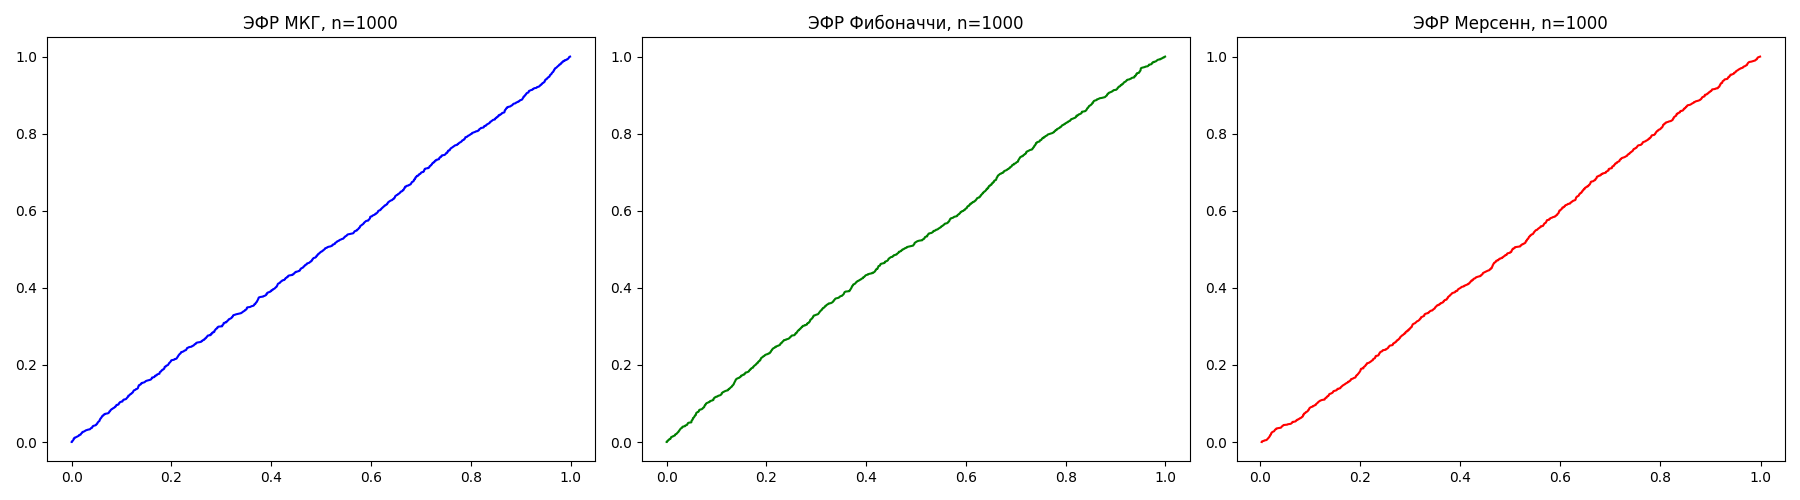
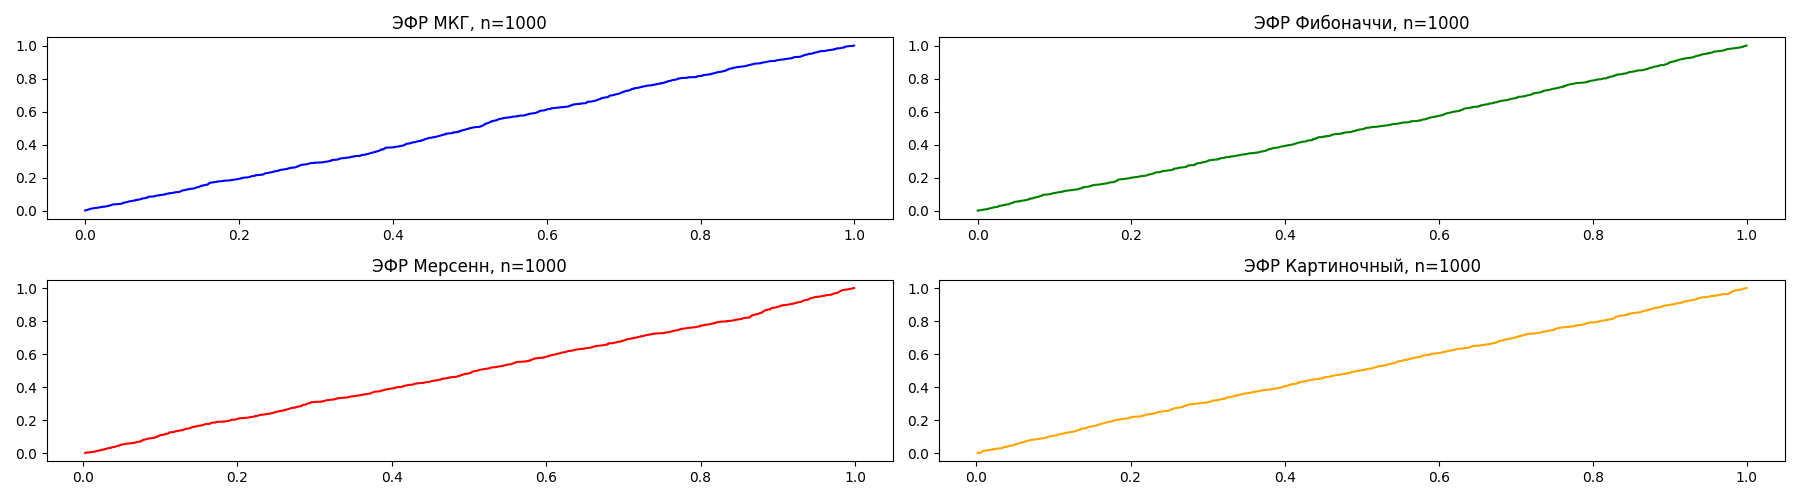
Добавлена 3 исправлена 2

diff --git a/4ModLab2/main.py b/4ModLab2/main.py
@@ -1,108 +1,171 @@
 import matplotlib.pyplot as plt
 import numpy as np
 import random
+import hashlib
+from PIL import Image
 
 
-def mcg_generator(size):
-    a, c, m = 16807, 0, 2 ** 31 - 1
-    r = 2 ** -52
-    result = []
+def image_random(size: int, image_path: str) -> list[float]:
+    img: Image.Image = Image.open(image_path).convert("RGB")
+    arr: np.ndarray = np.array(img, dtype=np.uint8)
+
+    lsb: np.ndarray = (arr & 1).flatten().astype(np.uint8)
+
+    padded_len: int = (len(lsb) + 7) // 8 * 8
+    lsb = np.pad(lsb, (0, padded_len - len(lsb)))
+
+    entropy: np.ndarray = np.packbits(lsb)
+
+    results: list[float] = []
+
+    for counter in range(size):
+        counter_bytes: bytes = counter.to_bytes(8, "big")
+        h: bytes = hashlib.sha256(entropy.tobytes() + counter_bytes).digest()
+        n: int = int.from_bytes(h[:8], "big")
+        results.append(n / 2 ** 64)
+
+    return results
+
+
+def mcg_generator(size: int) -> list[float]:
+    a: int = 16807
+    c: int = 0
+    m: int = 2 ** 31 - 1
+
+    x: int = 1  # seed
+    result: list[float] = []
+
     for _ in range(size):
-        r = ((a * r + c) % m) % 1
-        result.append(r)
+        x = (a * x + c) % m
+        result.append(x / m)
+
     return result
 
 
-def fibonacci_generator(size, lag1=63, lag2=31):
-    buffer = mcg_generator(max(lag1, lag2))
-    sequence = buffer.copy()
+def fibonacci_generator(size: int, lag1: int = 63, lag2: int = 31) -> list[float]:
+    buffer: list[float] = mcg_generator(max(lag1, lag2))
+    sequence: list[float] = buffer.copy()
+
     for i in range(len(buffer), size):
-        next_val = (sequence[i - lag1] - sequence[i - lag2]) % 1
+        next_val: float = (sequence[i - lag1] - sequence[i - lag2]) % 1.0
         sequence.append(next_val)
+
     return sequence
 
 
-def mt19937_generator(size):
+def mt19937_generator(size: int) -> list[float]:
     rng = random.Random()
     return [rng.random() for _ in range(size)]
 
 
-def basic_stats(data):
+def basic_stats(data: list[float]) -> str:
+    mean: float = float(np.mean(data))
+    var: float = float(np.var(data))
+    std: float = float(np.std(data))
     return (
-        f"Мат. ожидание: {np.mean(data):.5f}, "
-        f"Дисперсия: {np.var(data):.5f}, "
-        f"СКО: {np.std(data):.5f}"
+        f"Мат. ожидание: {mean:.5f}, "
+        f"Дисперсия: {var:.5f}, "
+        f"СКО: {std:.5f}"
     )
 
 
-def save_histograms(size, mcg, fib, mt):
-    fig, axs = plt.subplots(1, 3, figsize=(18, 5))
-    axs[0].hist(mcg, bins=50, color='skyblue')
-    axs[0].set_title(f"МКГ, n={size}")
-    axs[1].hist(fib, bins=50, color='lightgreen')
-    axs[1].set_title(f"Фибоначчи, n={size}")
-    axs[2].hist(mt, bins=50, color='salmon')
-    axs[2].set_title(f"Мерсенн, n={size}")
+def save_histograms(
+        size: int,
+        mcg: list[float],
+        fib: list[float],
+        mt: list[float],
+        ir: list[float]
+) -> None:
+    fig, axs = plt.subplots(2, 2, figsize=(18, 5))
+
+    axs[0][0].hist(mcg, bins=50, color='skyblue')
+    axs[0][0].set_title(f"МКГ, n={size}")
+
+    axs[0][1].hist(fib, bins=50, color='lightgreen')
+    axs[0][1].set_title(f"Фибоначчи, n={size}")
+
+    axs[1][0].hist(mt, bins=50, color='salmon')
+    axs[1][0].set_title(f"Мерсенн, n={size}")
+
+    axs[1][1].hist(ir, bins=50, color='orange')
+    axs[1][1].set_title(f"Картиночный, n={size}")
+
     plt.tight_layout()
     plt.savefig(f"graphics/histogram_n{size}.png")
     plt.close()
 
 
-def save_ecdf_plots(size, mcg, fib, mt):
-    fig, axs = plt.subplots(1, 3, figsize=(18, 5))
-    axs[0].plot(np.sort(mcg), np.linspace(0, 1, len(mcg)), color='blue')
-    axs[0].set_title(f"ЭФР МКГ, n={size}")
-    axs[1].plot(np.sort(fib), np.linspace(0, 1, len(fib)), color='green')
-    axs[1].set_title(f"ЭФР Фибоначчи, n={size}")
-    axs[2].plot(np.sort(mt), np.linspace(0, 1, len(mt)), color='red')
-    axs[2].set_title(f"ЭФР Мерсенн, n={size}")
+def save_ecdf_plots(
+        size: int,
+        mcg: list[float],
+        fib: list[float],
+        mt: list[float],
+        ir: list[float]
+) -> None:
+    fig, axs = plt.subplots(2, 2, figsize=(18, 5))
+
+    axs[0][0].plot(np.sort(mcg), np.linspace(0, 1, len(mcg)), color='blue')
+    axs[0][0].set_title(f"ЭФР МКГ, n={size}")
+
+    axs[0][1].plot(np.sort(fib), np.linspace(0, 1, len(fib)), color='green')
+    axs[0][1].set_title(f"ЭФР Фибоначчи, n={size}")
+
+    axs[1][0].plot(np.sort(mt), np.linspace(0, 1, len(mt)), color='red')
+    axs[1][0].set_title(f"ЭФР Мерсенн, n={size}")
+
+    axs[1][1].plot(np.sort(ir), np.linspace(0, 1, len(ir)), color='orange')
+    axs[1][1].set_title(f"ЭФР Картиночный, n={size}")
+
     plt.tight_layout()
     plt.savefig(f"graphics/ecdf_n{size}.png")
     plt.close()
 
 
-def save_scatter_diagrams(size, mcg, fib, mt):
-    fig, axs = plt.subplots(1, 3, figsize=(18, 5))
-    axs[0].scatter(mcg[:-1], mcg[1:], s=2, alpha=0.6, color='blue')
-    axs[0].set_title(f"МКГ XY, n={size}")
-    axs[1].scatter(fib[:-1], fib[1:], s=2, alpha=0.6, color='green')
-    axs[1].set_title(f"Фибоначчи XY, n={size}")
-    axs[2].scatter(mt[:-1], mt[1:], s=2, alpha=0.6, color='red')
-    axs[2].set_title(f"Мерсенн XY, n={size}")
+def save_scatter_diagrams(
+        size: int,
+        mcg: list[float],
+        fib: list[float],
+        mt: list[float],
+        ir: list[float]
+) -> None:
+    fig, axs = plt.subplots(2, 2, figsize=(18, 5))
+
+    axs[0][0].scatter(mcg[:-1], mcg[1:], s=2, alpha=0.6, color='blue')
+    axs[0][0].set_title(f"МКГ XY, n={size}")
+
+    axs[0][1].scatter(fib[:-1], fib[1:], s=2, alpha=0.6, color='green')
+    axs[0][1].set_title(f"Фибоначчи XY, n={size}")
+
+    axs[1][0].scatter(mt[:-1], mt[1:], s=2, alpha=0.6, color='red')
+    axs[1][0].set_title(f"Мерсенн XY, n={size}")
+
+    axs[1][1].scatter(ir[:-1], ir[1:], s=2, alpha=0.6, color='orange')
+    axs[1][1].set_title(f"Картиночный XY, n={size}")
+
     plt.tight_layout()
     plt.savefig(f"graphics/scatter_n{size}.png")
     plt.close()
 
 
-def save_uniform_plots():
-    x = np.linspace(0, 1, 1000)
-    fig, axs = plt.subplots(1, 2, figsize=(12, 4))
-    axs[0].plot(x, [1] * len(x), color='black')
-    axs[0].set_title("Плотность U(0,1)")
-    axs[1].plot(x, x, color='darkred')
-    axs[1].set_title("Функция распределения U(0,1)")
-    plt.tight_layout()
-    plt.savefig("graphics/uniform_plots.png")
-    plt.close()
-
-
 def main() -> int:
-    sample_sizes = [1000, 5000, 10000]
+    sample_sizes: list[int] = [1_000, 5_000, 10_000, 100_000]
+
     for size in sample_sizes:
-        data_mcg = mcg_generator(size)
-        data_fib = fibonacci_generator(size)
-        data_mt = mt19937_generator(size)
+        data_mcg: list[float] = mcg_generator(size)
+        data_fib: list[float] = fibonacci_generator(size)
+        data_mt: list[float] = mt19937_generator(size)
+        data_ir: list[float] = image_random(size, "example_2.jpg")
 
         print(f"\nАнализ для n = {size}")
         print("МКГ:", basic_stats(data_mcg))
         print("Фибоначчи:", basic_stats(data_fib))
         print("Мерсенн:", basic_stats(data_mt))
+        print("Картиночный", basic_stats(data_ir))
 
-        save_histograms(size, data_mcg, data_fib, data_mt)
-        save_ecdf_plots(size, data_mcg, data_fib, data_mt)
-        save_scatter_diagrams(size, data_mcg, data_fib, data_mt)
+        save_histograms(size, data_mcg, data_fib, data_mt, data_ir)
+        save_ecdf_plots(size, data_mcg, data_fib, data_mt, data_ir)
+        save_scatter_diagrams(size, data_mcg, data_fib, data_mt, data_ir)
 
-    save_uniform_plots()
     return 0
 
 

diff --git a/4ModLab3/main.py b/4ModLab3/main.py
@@ -1,0 +1,65 @@
+import random
+import time
+import statistics
+import math
+
+
+def estimate_pi(n_points: int) -> float:
+    """Оценивает число π методом Монте-Карло."""
+    inside = 0
+    for _ in range(n_points):
+        x, y = random.random(), random.random()
+        if x * x + y * y <= 1:
+            inside += 1
+    return 4 * inside / n_points
+
+
+def main():
+    print("=== Определение числа π методом Монте-Карло ===")
+    total_trials = 100       # количество независимых экспериментов
+    max_points = 200_000     # максимум бросков в одном эксперименте
+    step = 2000              # шаг увеличения числа бросков
+    eps = 0.009              # допуск на погрешность (±0.005 соответствует второму знаку)
+
+    random.seed(228)          # фиксируем генератор для воспроизводимости
+
+    start_time = time.time()
+    results = []
+
+    for _ in range(total_trials):
+        found = None
+        for n in range(step, max_points + step, step):
+            pi_est = estimate_pi(n)
+            # Проверяем достижение точности до двух знаков
+            if abs(pi_est - math.pi) < eps:
+                found = n
+                break
+        results.append(found)
+
+    duration = time.time() - start_time
+    successful = [r for r in results]
+
+    print(f"\nЭкспериментов: {total_trials}, максимальное число бросков: {max_points}")
+    print(f"Время выполнения: {duration:.2f} с")
+
+    if successful:
+        success_rate = len(successful) / total_trials
+        median_n = statistics.median(successful)
+        mean_n = statistics.mean(successful)
+
+        print(
+            f"Точность до второго знака (3.14) достигнута в {len(successful)} из {total_trials} случаев "
+            f"({success_rate:.2%})"
+        )
+        print(f"Медиана количества бросков: {int(median_n)}")
+        print(f"Среднее количество бросков: {int(mean_n)}")
+    else:
+        print("Ни в одном эксперименте точность не достигнута.")
+
+    # Исправленная теоретическая формула
+    theoretical_n = (math.pi * (4 - math.pi)) / (eps ** 2)
+    print(f"\nТеоретически для точности ±{eps} нужно примерно {int(theoretical_n)} бросков")
+
+
+if __name__ == "__main__":
+    main()
